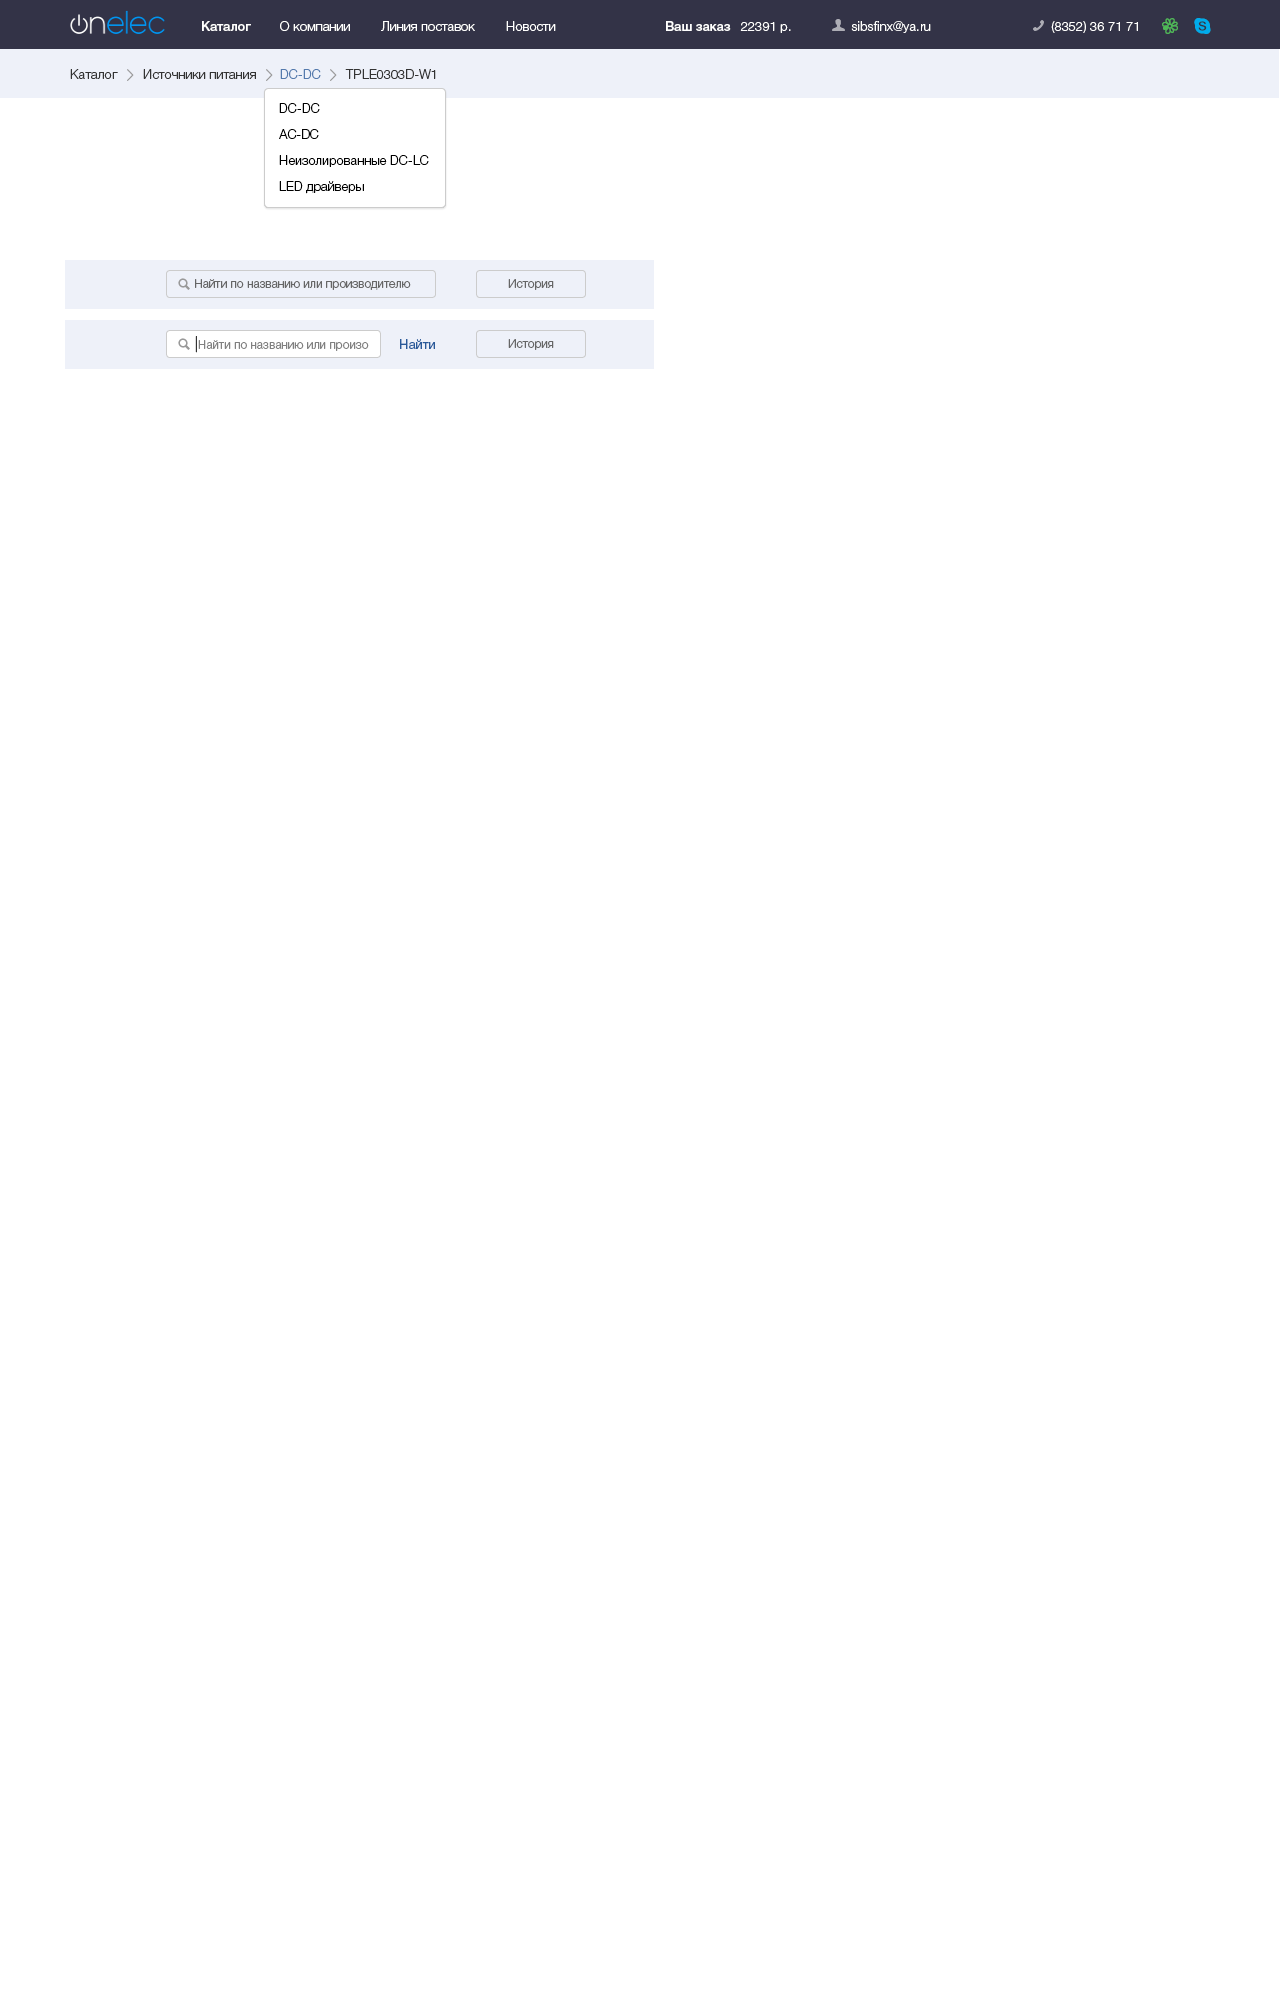
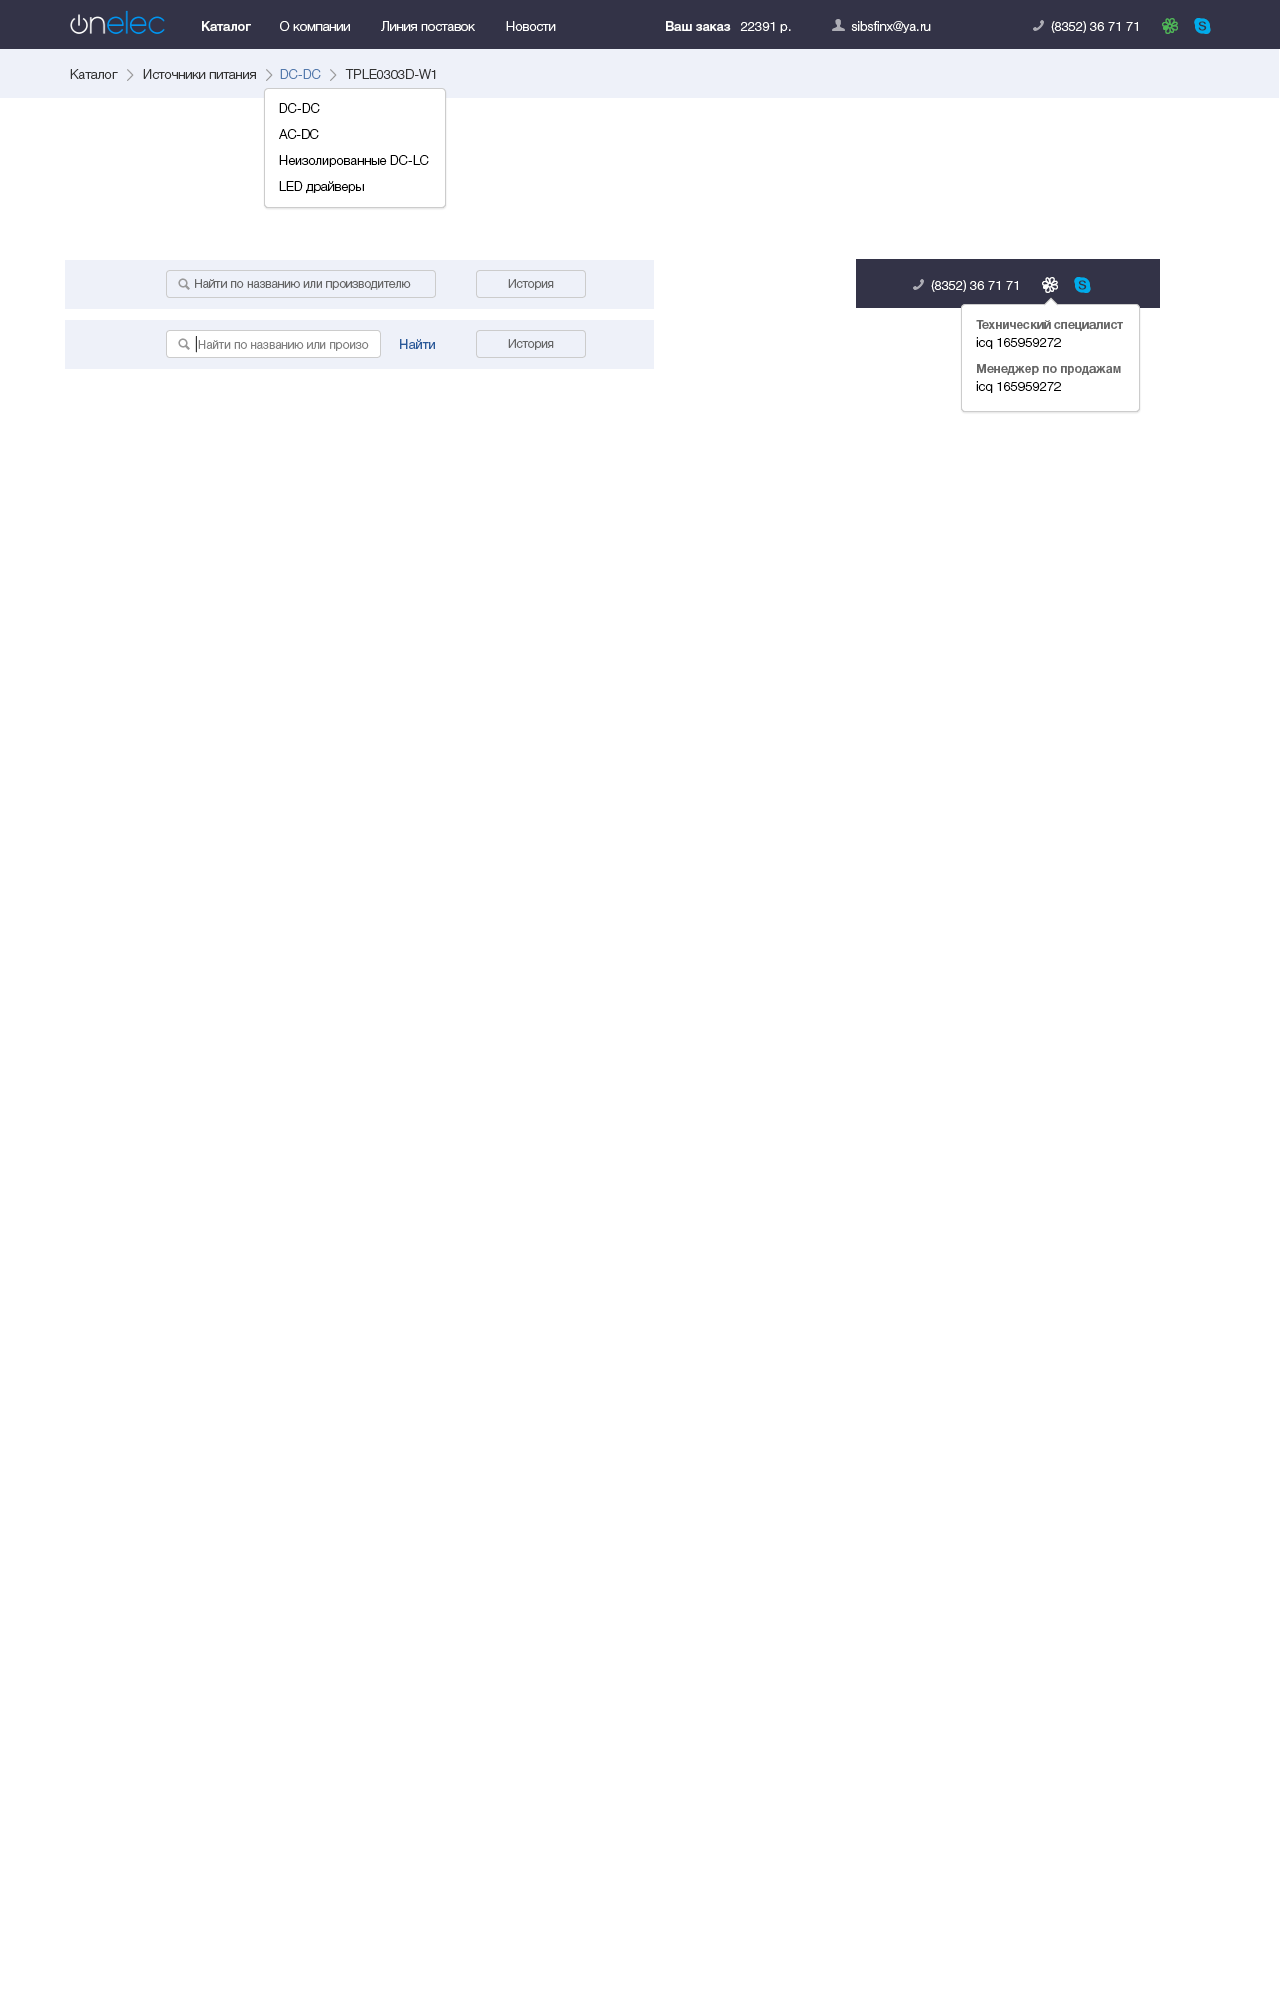
"Automated commit at 2014-08-12 08:32:18 UTC by middleman-deploy 0.1.4"

Changed region(s): [[0.6562, 0.124, 0.9062, 0.217]]

diff --git a/demo_onelec_design5.html b/demo_onelec_design5.html
@@ -11,7 +11,7 @@
     <link href='http://brandymint.github.io/traktorism_design/stylesheets/application.css' media='screen' rel='stylesheet' type='text/css'>
   </head>
   <body class='page'>
-    <a class='application-window clickable' href='demo_onelec_design5.html' role='design-demo-image' style='background-image: url("images/demo/onelec_design4.png")'></a>
+    <a class='application-window clickable' href='demo_onelec_design.html' role='design-demo-image' style='background-image: url("images/demo/onelec_design5.png")'></a>
   </body>
 </html>
 <script src='http://brandymint.github.io/traktorism_design/javascripts/application.js'></script>

diff --git a/index.html b/index.html
@@ -46,6 +46,14 @@
     
           </div>
         </div>
+        <div class='col-xs-6 col-sm-3'>
+          <div class='index-preview'>
+                    <a href="demo_onelec_design5.html"><img src='.//images/demo/onelec_design5.png'>
+            <br>
+            </a>
+    
+          </div>
+        </div>
       </div>
       <hr>
       <div class='row'>
